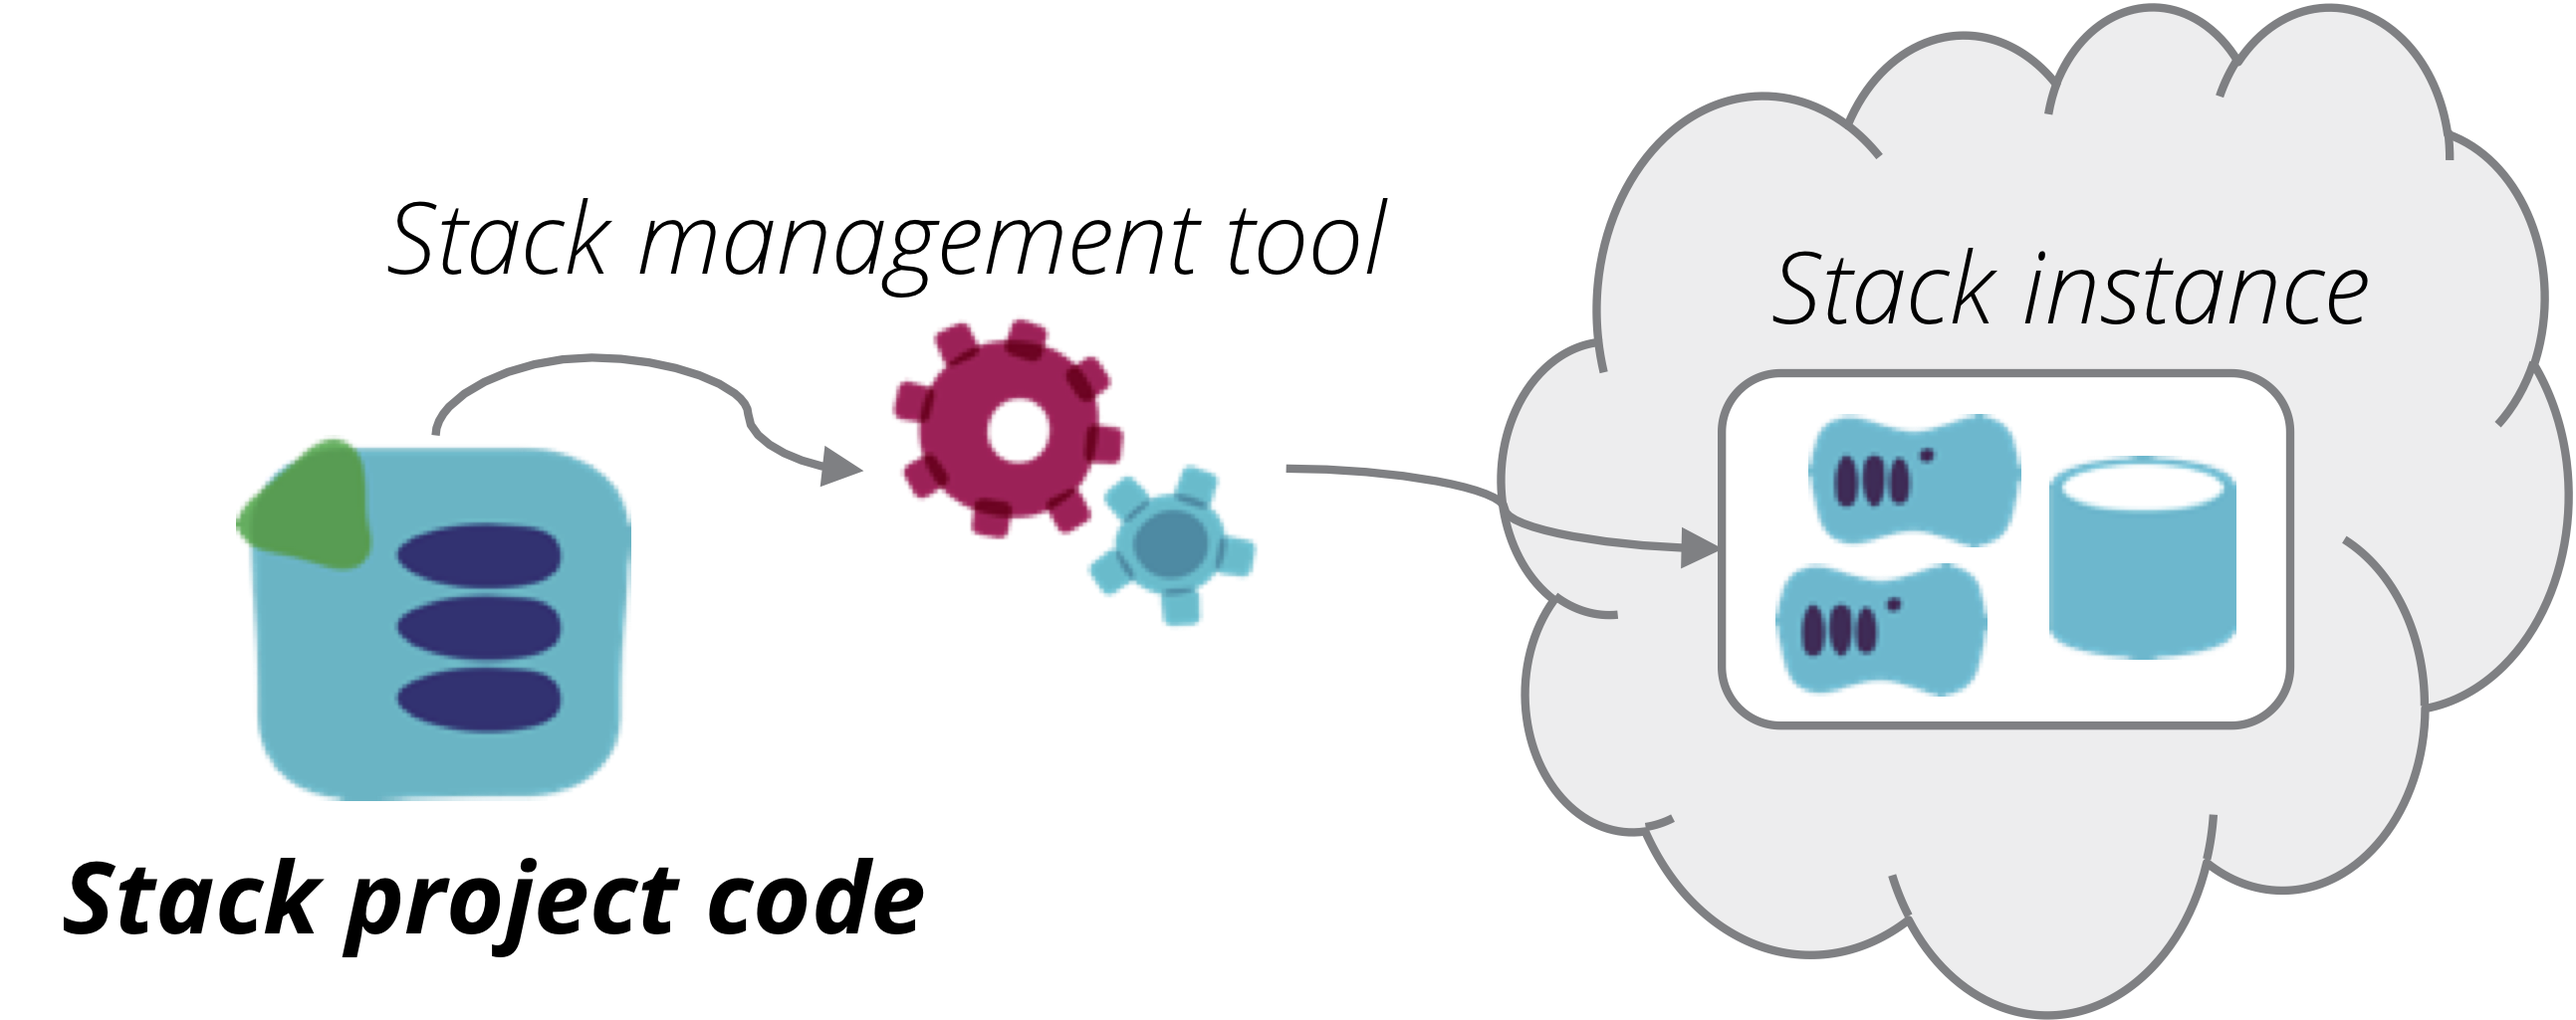
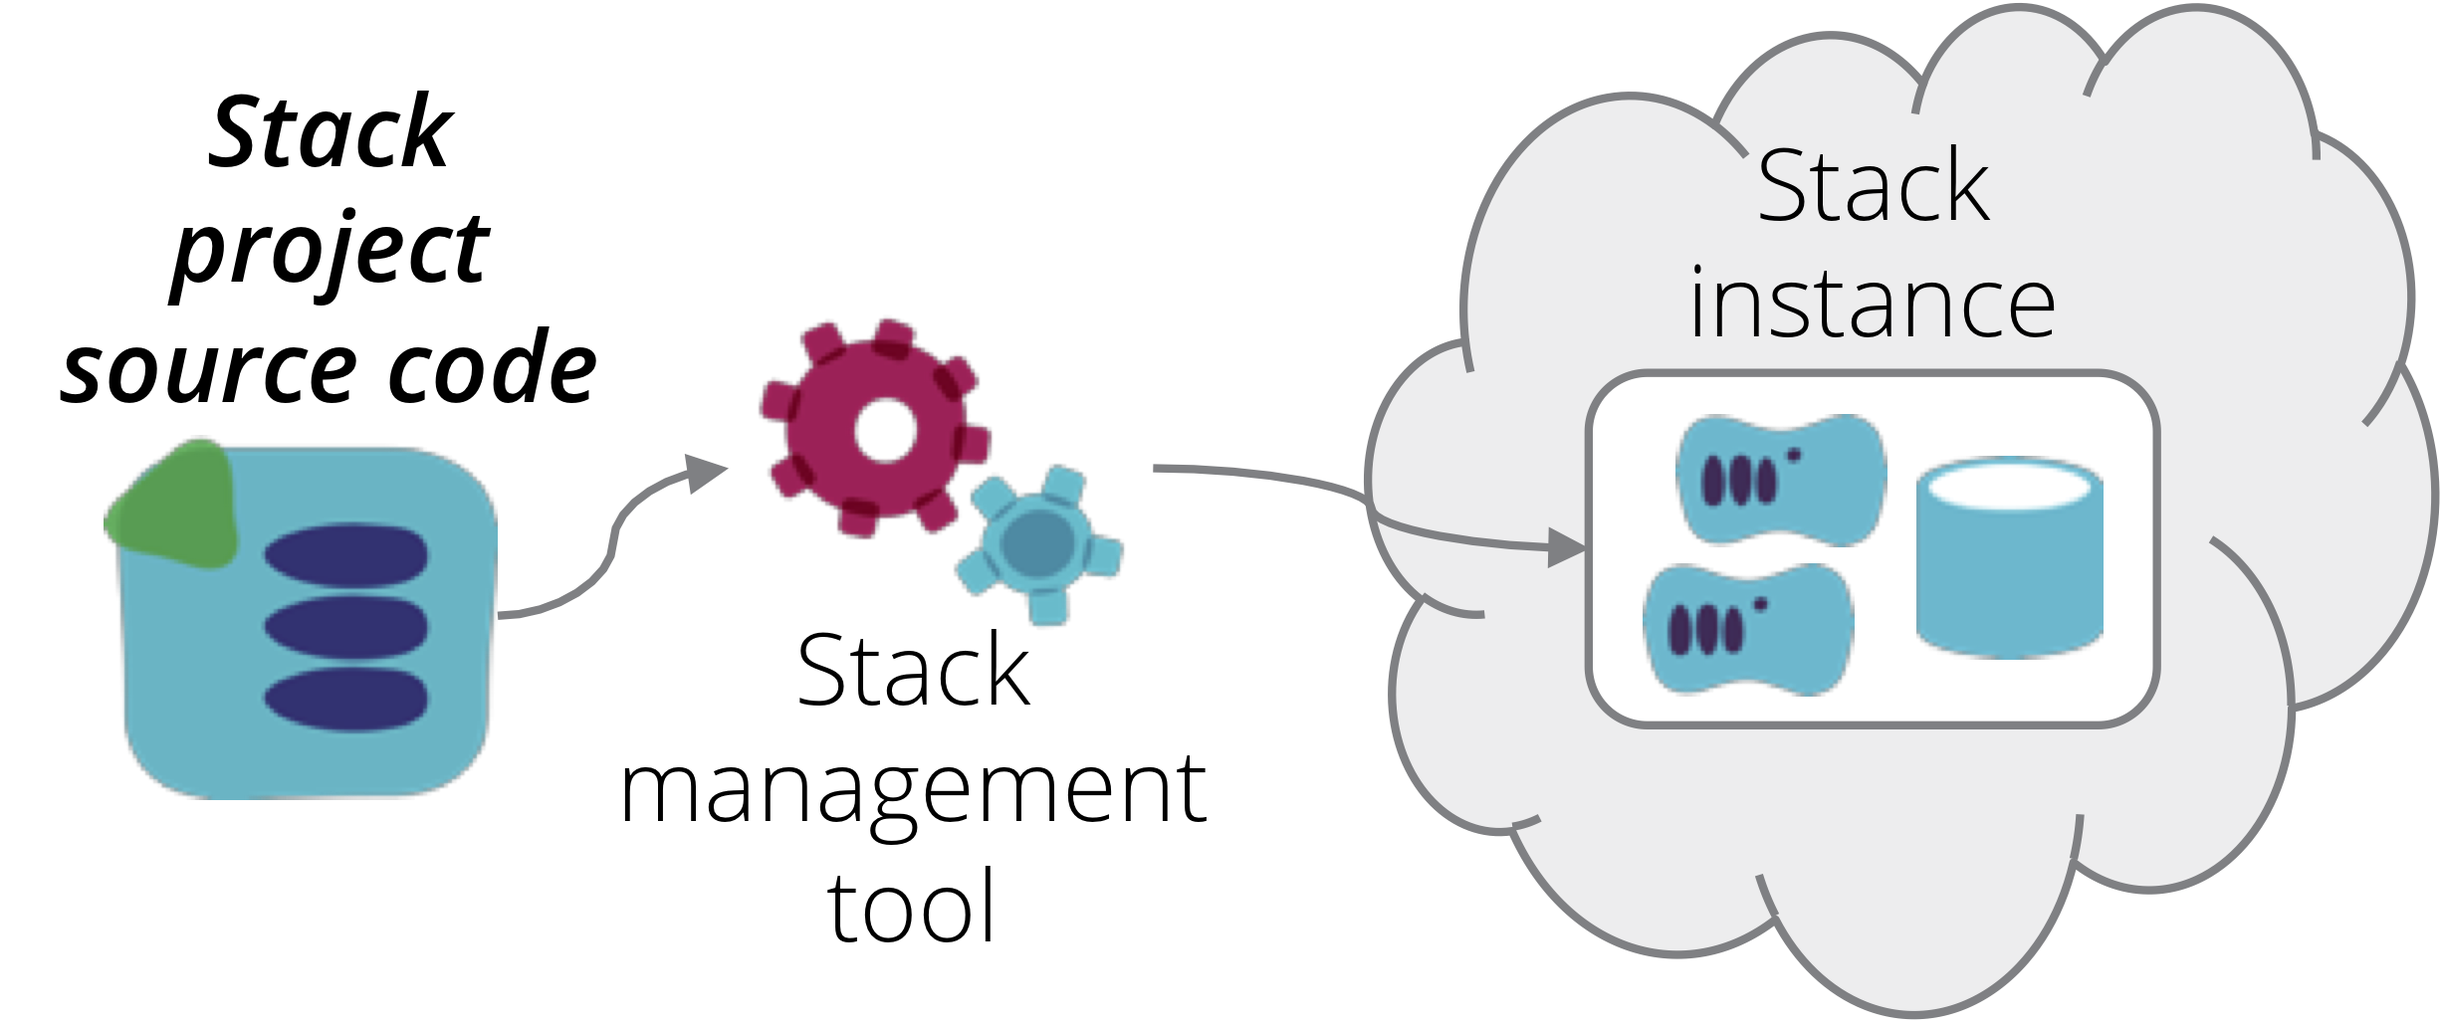
Renamed stack module to stack component module, moved it to core structures. Changed up some of the images in the core stack page.

diff --git a/_patterns/core-stack/index.md b/_patterns/core-stack/index.md
@@ -9,38 +9,33 @@ published: true
 status: review
 ---
 
-An *Infrastructure Stack* is a collection of infrastructure elements that is defined, provisioned, and updated as a unit. The elements of the stack are defined in source code. A stack management tool reads the source code and interacts with an infrastructure platform to create and update an instance of the stack.
+An *Infrastructure Stack* is a collection of infrastructure elements that is defined, provisioned, and updated as a unit. The elements of the stack are defined in *source code*, and may include a combination of compute, networking, and/or storage resources. A *stack management tool* reads the source code and interacts with an infrastructure platform to ensure the specified resources are provisioned as an *instance* of the stack.
+
+
+<figure>
+  <img src="images/infrastructure-stack.png" alt="An infrastructure stack is a collection of infrastructure elements managed as a unit"/>
+  <figcaption>Figure 1. An infrastructure stack is a collection of infrastructure elements managed as a unit.</figcaption>
+</figure>
+
 
 ## Stack management tools
 
 Examples of stack management tools include [Hashicorp Terraform](https://www.terraform.io/), [AWS CloudFormation](https://aws.amazon.com/cloudformation/), [Azure Resource Manager Templates](https://docs.microsoft.com/en-us/azure/azure-resource-manager/resource-group-overview), [Google Cloud Deployment Manager Templates](https://cloud.google.com/deployment-manager/) and [OpenStack Heat](https://wiki.openstack.org/wiki/Heat). Some toolchains designed to configure servers also have capabilities to manage stacks, for example [Ansible Cloud Modules](https://www.ansible.com/integrations/cloud), [Chef Provisioning](https://docs.chef.io/provisioning.html), [Puppet modules](https://forge.puppet.com/puppetlabs/aws/readme), and [Salt Cloud](https://docs.saltstack.com/en/latest/topics/cloud/).
 
 
-### Stack as a term
+### "Stack" as a term
 
-These tools, and others like them, all define a collection of infrastructure in a declarative way, but they don't use a single common term to describe the collection.
-
-a collection of infrastructure they work with, so for the purposes of cross-tool design patterns, we will use the term "stack".
-
-and there are design patterns (and anti-patterns) that apply regardless of which one you work with. 
-
-
-<figure>
-  <img src="images/infrastructure-stack.png" alt="An infrastructure stack is a collection of infrastructure elements managed as a unit"/>
-  <figcaption>An infrastructure stack is a collection of infrastructure elements managed as a unit.</figcaption>
-</figure>
+These tools, and others like them, all define a collection of infrastructure in a declarative way, but they don't use a single common term to describe the collection. So for the purposes of cross-tool design patterns, we will use the term "stack". 
 
 
 ## Stack code project
 
 Each stack has source code project that declares what infrastructure elements should be provisioned as a part of the stack. It may be a Terraform project, CloudFormation template, or code for another tool which manages cloud infrastructure as code. A stack project contains the source code that correlates to an instance of infrastructure. With Terraform, this relates to a statefile; with CloudFormation, it is a CloudFormation Stack, etc.
 
-A stack project may use shared infrastructure code - for example, [CloudFormation nested stacks](https://aws.amazon.com/blogs/devops/use-nested-stacks-to-create-reusable-templates-and-support-role-specialization/) or [Terraform modules](https://www.terraform.io/docs/modules/index.html).
-
 
 <figure>
   <img src="images/stack-source.png" alt="A stack source code project is used to provision stack instances"/>
-  <figcaption>A stack source code project is used to provision stack instances.</figcaption>
+  <figcaption>Figure 2. A stack source code project is used to provision stack instances.</figcaption>
 </figure>
 
 
@@ -49,17 +44,23 @@ Below is an example stack source code project, in this case Terraform:
 ~~~ console
 stack-project/
    ├── src/
-   │   ├── backend.tf
-   │   ├── bastion.tf
    │   ├── dns.tf
    │   ├── load_balancers.tf
    │   ├── networking.tf
-   │   ├── outputs.tf
-   │   ├── provider.tf
-   │   ├── variables.tf
    │   └── webserver.tf
    └── test/
 ~~~
+
+
+### Stack component modules
+
+A [stack component module](stack-component-module.html) is a package of code that can be shared by multiple stack projects.
+
+
+<figure>
+  <img src="images/stack-component-module.png" alt="A stack component module packages code to be shared by multiple stack projects"/>
+  <figcaption>Figure 3. A stack component module packages code to be shared by multiple stack projects.</figcaption>
+</figure>
 
 
 ## Stack instance
@@ -70,19 +71,19 @@ If changes are made to the code and the tool is run again, then the existing inf
 
 The [Singleton Stack antipattern](singleton-stack.html) is a naive implementation, where each stack instance is defined and managed by its own separate copy of the stack source code. This is useful for very simple use cases, particularly when learning something, but it isn't a suitable approach for important infrastructure.
 
-In most cases, a single stack code project can be used to provision and manage multiple stack instances. There are two main patterns for this, which address different use cases.
 
+## Multiple stack instances
+
+A single stack code project may be used to provision and manage multiple stack instances. There are two main patterns for this, which address different use cases.
+
+The first pattern for reusing a stack project's code is a [template stack](template-stack.html), which aims to ensure consistency across instances. The common uses for this are: to provide consistent environments for testing software and other system elements; to test changes to the infrastructure code itself; or to replicate system elements for scaling, geographic available, or resilience. There is very little variation between instances of the stack, since the intention is for them to be replicas of the same system elements.
 
 
 <figure>
   <img src="images/stack-instances.png" alt="Multiple stack instances can be provisioned from a single stack code project"/>
-  <figcaption>Multiple stack instances can be provisioned from a single stack code project.</figcaption>
+  <figcaption>Figure 4. Multiple stack instances can be provisioned from a single stack code project.</figcaption>
 </figure>
 
-
-## Multiple stack instances
-
-The first pattern for reusing a stack project's code is a [template stack](template-stack.html), which aims to ensure consistency across instances. The common uses for this are: to provide consistent environments for testing software and other system elements; to test changes to the infrastructure code itself; or to replicate system elements for scaling, geographic available, or resilience. There is very little variation between instances of the stack, since the intention is for them to be replicas of the same system elements.
 
 The second pattern for reusing a stack project's code is a [library stack](library-stack.html), where stack code is reused to create multiple instances which have similar infrastructure elements, but which are used for different purposes. For example, code that defines a database cluster may be used to create one stack instance for a product service database, a second instance for a customer service database, and a third instance for a transaction service database. Unlike template stacks, two instances of a given library stack may be very different, since they may serve different purposes.
 

diff --git a/_patterns/core-stack/library-stack.md b/_patterns/core-stack/library-stack.md
@@ -77,12 +77,12 @@ search-service-stack-full/
 
 Generally speaking, few (if any) infrastructure stack tools support this structure directly. It is generally implemented by teams using [stack orchestration tools](/patterns/stack-orchestration-tools/).
 
-Another way to implement a library stack is through [stack modules](/patterns/stack-structures/stack-code-module.html). The main code is defined in a module, which is imported into a stack project which includes code to add the customizations.
+Another way to implement a library stack is through [stack modules](/patterns/core-stack/stack-code-module.html). The main code is defined in a module, which is imported into a stack project which includes code to add the customizations.
 
 
 ## How stack modules relate to library stacks
 
-A [stack module](/patterns/stack-structures/stack-code-module.html) is infrastructure code that is packaged to be re-used by multiple stack projects. For example, a module may contain code that defines a block storage device (a mountable hard drive, such as an EBS volume on AWS). A stack project's code can reference this module, probably passing some parameters, to provision an EBS volume.
+A [stack module](/patterns/core-stack/stack-code-module.html) is infrastructure code that is packaged to be re-used by multiple stack projects. For example, a module may contain code that defines a block storage device (a mountable hard drive, such as an EBS volume on AWS). A stack project's code can reference this module, probably passing some parameters, to provision an EBS volume.
 
 Stack modules are mechanisms provided by specific stack management tools. Terraform has [modules](https://www.terraform.io/docs/modules/index.html), Cloudformation has [nested stacks](https://aws.amazon.com/blogs/devops/use-nested-stacks-to-create-reusable-templates-and-support-role-specialization/), etc.
 

diff --git a/_patterns/core-stack/stack-component-module.md b/_patterns/core-stack/stack-component-module.md
@@ -1,21 +1,21 @@
 ---
 layout: pattern
-title:  "Stack Code Module Pattern"
+title:  "Stack Component Module Pattern"
 date:   2019-01-01 16:20:00
-category: Stack Structural Patterns
-order: 18
+category: Core Stack Patterns
+order: 5
 published: true
 status: review
 ---
 
-A Stack Code Module is a unit of infrastructure code that can be included into one or more [infrastructure stack](/patterns/core-stack/) projects.
+A Stack Component Module is infrastructure code that can be included into one or more [infrastructure stack](/patterns/core-stack/) projects.
 
 Most stack management tools implement modularization for re-use. Terraform has [modules](https://www.terraform.io/docs/modules/index.html), Cloudformation has [nested stacks](https://aws.amazon.com/blogs/devops/use-nested-stacks-to-create-reusable-templates-and-support-role-specialization/), etc.
 
 
 <figure>
-  <img src="images/stack-code-module.png" alt="A Stack Code Module is a unit of infrastructure code that can be included into one or more infrastructure stack projects"/>
-  <figcaption>A Stack Code Module is a unit of infrastructure code that can be included into one or more infrastructure stack projects.</figcaption>
+  <img src="images/stack-component-module.png" alt="A Stack Component Module is a unit of infrastructure code that can be included into one or more infrastructure stack projects"/>
+  <figcaption>A Stack Component Module is a unit of infrastructure code that can be included into one or more infrastructure stack projects.</figcaption>
 </figure>
 
 

diff --git a/_patterns/core-stack/template-stack.md b/_patterns/core-stack/template-stack.md
@@ -46,7 +46,7 @@ It is a red flag when a parameter is used as a conditional that decides whether 
 
 Some teams use the [singleton stack anti-pattern](singleton-stack.html) to manage multiple instances of a stack. This involves creating a new copy of the stack code for each new environment or other instance. While this is a straightforward approach to implement, it makes it difficult to keep each instance consistent.
 
-A variation of the singleton stack is the [wrapper stack pattern]. Like the singleton stack, there is a separate copy of the stack code for each stack instance. However, the bulk of the infrastructure code is contained in a [stack module](/patterns/stack-structures/stack-code-module.html), a library which is imported into the stack project. This way the code is declared once - in the module - and re-used across each stack instance. Each stack project is effectively used as a mechanism to define parameter values for one stack instance.
+A variation of the singleton stack is the [wrapper stack pattern]. Like the singleton stack, there is a separate copy of the stack code for each stack instance. However, the bulk of the infrastructure code is contained in a [stack module](/patterns/core-stack/stack-code-module.html), a library which is imported into the stack project. This way the code is declared once - in the module - and re-used across each stack instance. Each stack project is effectively used as a mechanism to define parameter values for one stack instance.
 
 
 ## Testing infrastructure stack code

diff --git a/_patterns/stack-configuration/index.md b/_patterns/stack-configuration/index.md
@@ -110,7 +110,7 @@ An alternative is to define parameter values in [Parameter Files](stack-paramete
 ~~~
 
 
-A variation of parameter files is a [wrapper stack](wrapper-stack.html). With this approach, the code that defines an environment stack is kept in a [stack code module](/patterns/stack-structures/stack-code-module.html). A stack project is then created for each stack instance, whose purpose is to pass values to the module code for the specific instance.
+A variation of parameter files is a [wrapper stack](wrapper-stack.html). With this approach, the code that defines an environment stack is kept in a [stack code module](/patterns/core-stack/stack-code-module.html). A stack project is then created for each stack instance, whose purpose is to pass values to the module code for the specific instance.
 
 When infrastructure code is applied to environments using a Continuous Delivery Pipeline, [values can be defined in pipeline job configuration](pipeline-defined-parameters.html). Each stage which applies the stack code to a given environment includes configuration values for that environment, which is then passed to the command which applies to the code.
 

diff --git a/_patterns/stack-structures/index.md b/_patterns/stack-structures/index.md
@@ -19,4 +19,4 @@ In the other direction, multiple services are run in a single [multi-service sta
 
 [Shared nothing stacks] take the single service pattern to the extreme of ensuring that stacks do not have dependencies on other stacks. More commonly, stacks do have dependencies, for example a service stack's infrastructure may use networking structures managed by another stack. [Stack integration patterns] is an important topic in infrastructure design.
 
-It is common to simplify infrastructure design by having a stack provide infrastructure used by other stacks. Another technique is to share common infrastructure code as a [stack module](stack-code-module.html), imported into multiple stack projects.
+It is common to simplify infrastructure design by having a stack provide infrastructure used by other stacks. Another technique is to share common infrastructure code as a [stack module](/patterns/core-stack/stack-code-module.html), imported into multiple stack projects.
